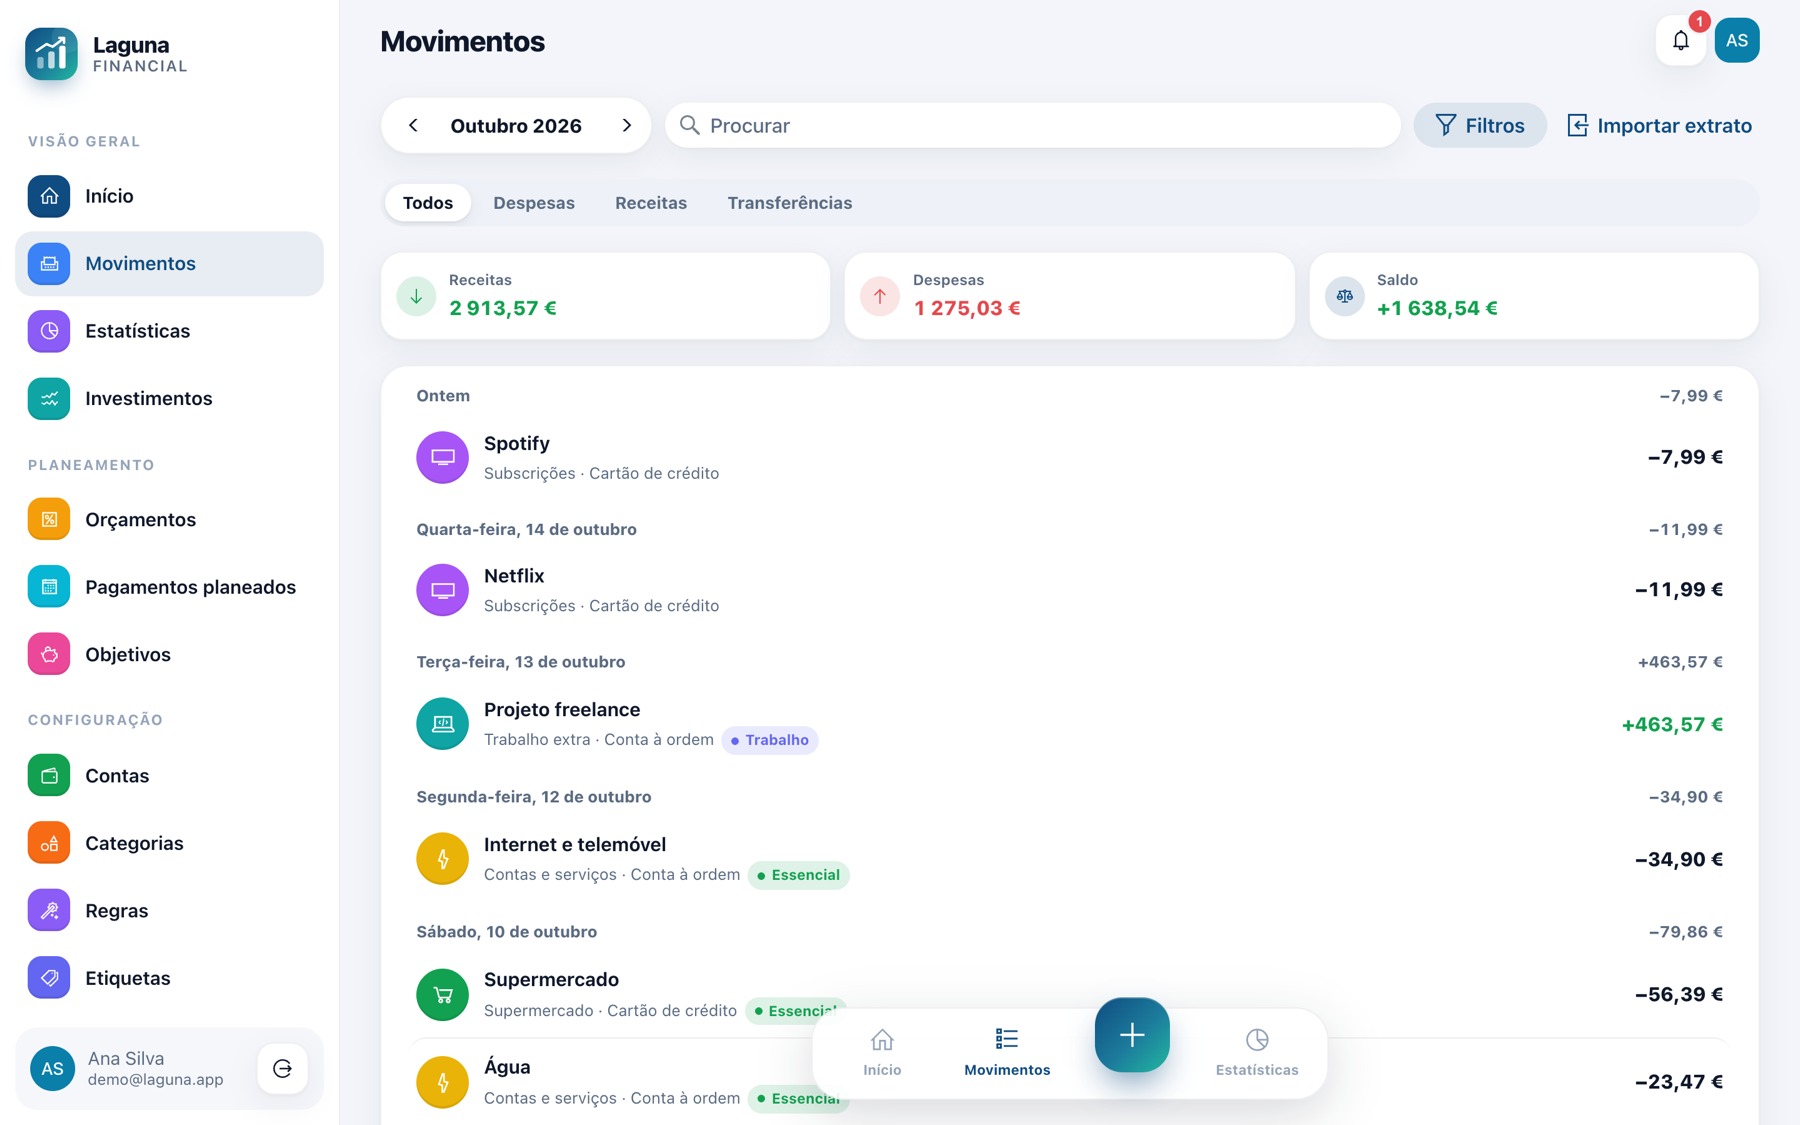
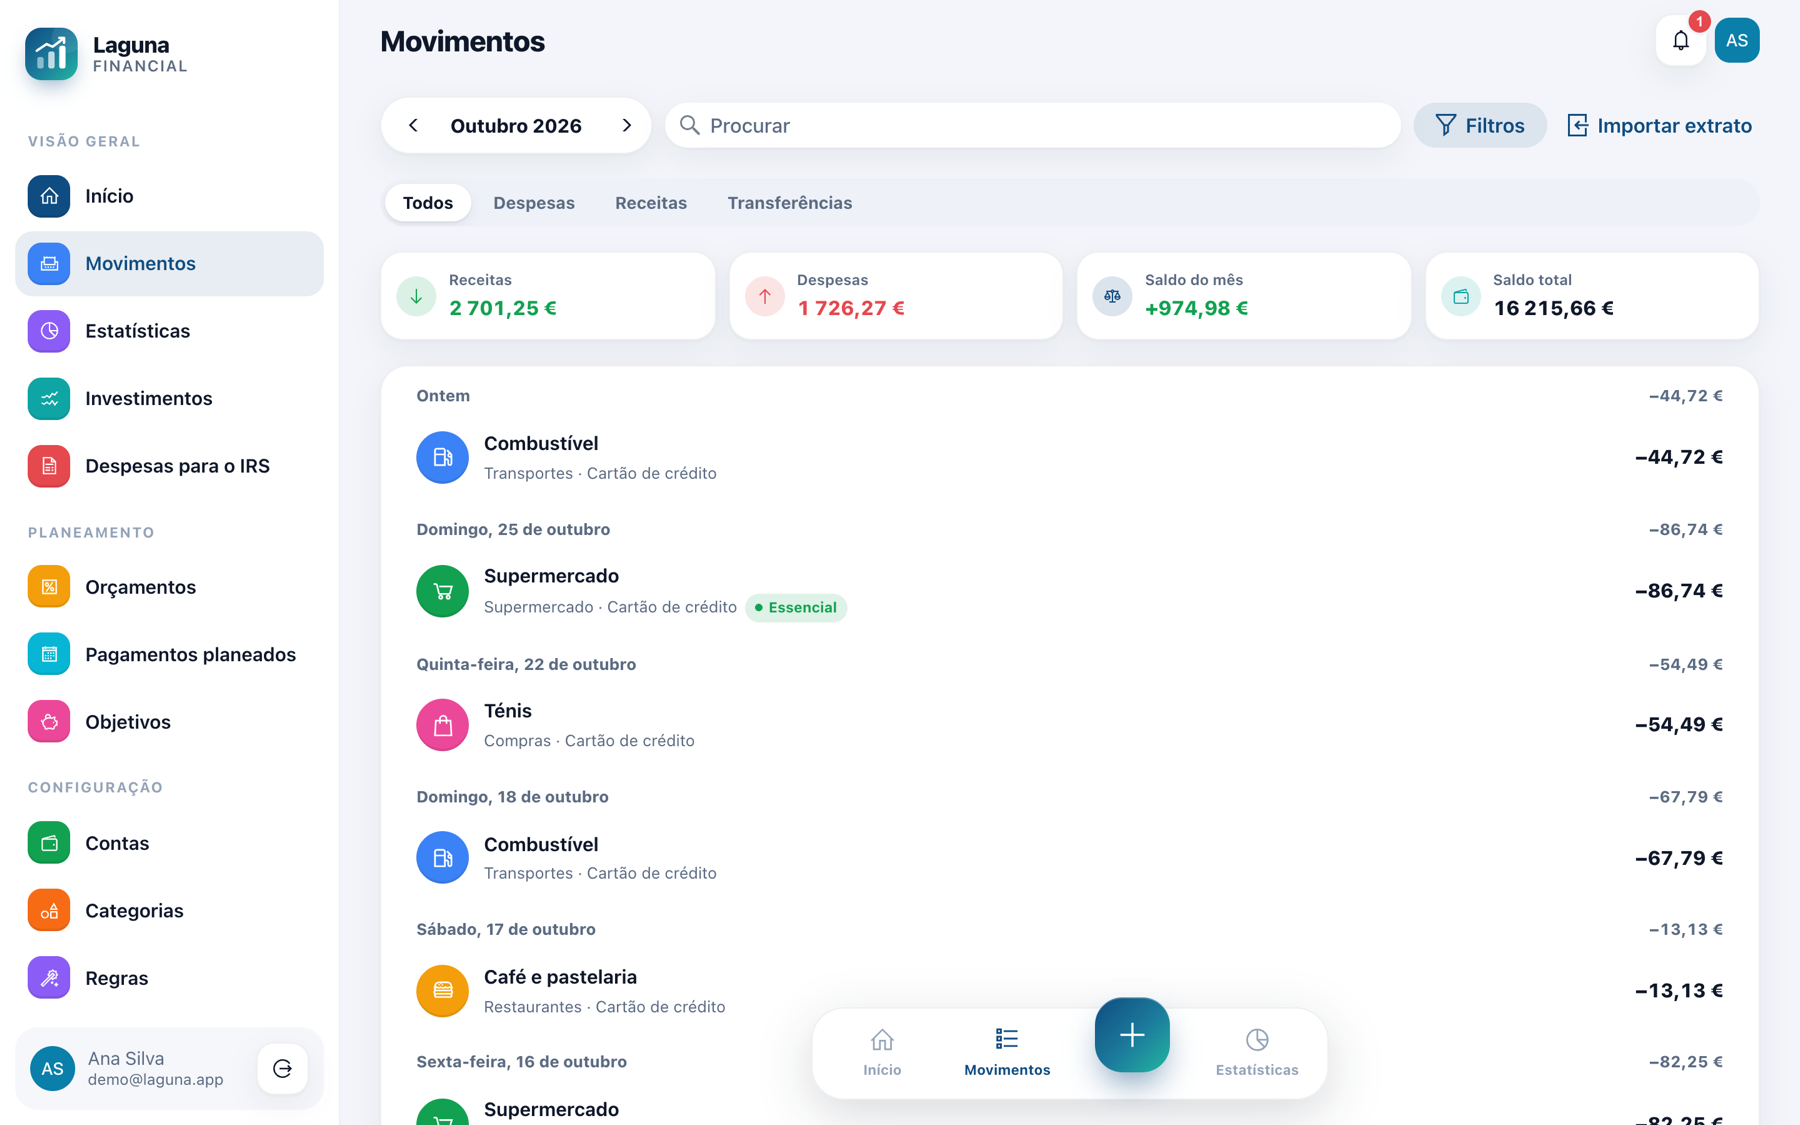
README da 2.2.0: recibos, várias moedas (câmbio do BCE), acerto de saldo e despesas para o IRS
Capturas refeitas com a demonstração atual e duas novas (recibos e IRS).

diff --git a/README.md b/README.md
@@ -9,12 +9,16 @@
 ## O que faz
 
 - **Contas e movimentos** — banco, carteira, cartão, poupanças e investimentos; despesas, receitas e transferências, com categorias, subcategorias e etiquetas.
+- **Recibos** — anexe a fotografia ou o PDF da fatura a cada movimento; ficam guardados com os dados (e nas cópias de segurança).
+- **Acertar o saldo com o do banco** — escreva o saldo que o banco mostra e a diferença entra como um acerto, que não conta como gasto nem como ganho.
 - **Importar extratos do banco** — o ficheiro CSV que o site ou a app do banco exporta. As colunas são reconhecidas sozinhas e importar o mesmo extrato duas vezes não repete movimentos.
 - **Regras de categorização** — "descrição contém CONTINENTE → Supermercado": os movimentos importados já entram na categoria certa.
 - **Orçamentos** — semanais, mensais ou anuais, com aviso aos 80 % e aos 100 %.
 - **Pagamentos planeados e objetivos** — renda, ginásio, salário, com lembrete; quanto poupar por mês para chegar a um objetivo a tempo.
 - **Estatísticas** — fluxo de caixa, despesas e receitas por categoria e por etiqueta, evolução do saldo, comparação com o período anterior.
+- **Despesas para o IRS** — quanto gastou por ano em saúde, educação, habitação, IVA por exigência de fatura…, pela categoria de cada despesa, para conferir o e-fatura e classificar as faturas pendentes.
 - **Investimentos** — ações e ETF registados à mão: carteira a preço de custo, dividendos, mais-valias por FIFO e um relatório anual de apoio ao IRS.
+- **Várias moedas** — cada conta na sua moeda; os totais convertem para a moeda principal com o câmbio do Banco Central Europeu do dia de cada movimento (ou com taxas suas).
 - **Cópias de segurança** — uma por semana automaticamente, mais as que fizer à mão, e restaurar com um clique. Exporta também tudo em CSV, que abre no Excel ou no LibreOffice.
 - **Português, inglês e espanhol**, tema claro e escuro, e a moeda à escolha (euro, real, dólar, libra…).
 
@@ -23,11 +27,12 @@
 | ![Movimentos do mês agrupados por dia](capturas/02-movimentos.png) | ![Estatísticas do mês: receitas, despesas, saldo e fluxo de caixa](capturas/03-estatisticas.png) |
 | ![Orçamentos com o progresso do mês](capturas/04-orcamentos.png) | ![Carteira de investimentos a preço de custo](capturas/05-investimentos.png) |
 | ![Regras de categorização automática](capturas/06-regras.png) | ![Ecrã inicial no tema escuro](capturas/07-inicio-escuro.png) |
+| ![Recibos anexados a uma despesa](capturas/08-recibos.png) | ![Despesas para o IRS por tipo de dedução](capturas/09-irs.png) |
 
 ## Os seus dados são seus
 
 - Ficam **no seu computador**, na pasta `.laguna-financial` da sua área pessoal. Não há servidor nosso nem conta online.
-- A aplicação só fala com a internet para **ver se há uma versão nova** (consulta este repositório no GitHub; não envia dados seus). Se ligar os avisos no browser, esses avisos passam pelo serviço de notificações do próprio browser.
+- A aplicação só fala com a internet para **ver se há uma versão nova** (consulta este repositório no GitHub; não envia dados seus) e, **só se tiver contas noutras moedas**, para buscar o câmbio ao Banco Central Europeu (pede as taxas publicadas, sem nada seu; pode desligar em Preferências › Moedas e câmbio). Se ligar os avisos no browser, esses avisos passam pelo serviço de notificações do próprio browser.
 - A aplicação só aceita ligações do próprio computador (`localhost`): ninguém na sua rede lhe chega.
 - Pode exportar tudo a qualquer momento e levar os dados para outro computador copiando a pasta.
 
@@ -65,6 +70,8 @@ Em Preferências › **Cópias de segurança**: fazer uma cópia agora, uma cóp
 **Liga-se ao meu banco?** Não. Os movimentos entram à mão ou pelo ficheiro do extrato que exporta do banco — a aplicação nunca vê as suas credenciais bancárias.
 
 **Posso usar no telemóvel?** Esta versão é para o computador. Uma versão alojada, com acesso pelo telemóvel e partilha entre casas, está nos planos.
+
+**Calcula a dedução do IRS?** Não: mostra quanto gastou em cada tipo de dedução para conferir o e-fatura. As percentagens e os limites mudam com o ano e com o agregado familiar.
 
 **Esqueci-me da palavra-passe.** Em "Recuperar palavra-passe", o link para a repor fica num ficheiro `repor-palavra-passe.txt` dentro da pasta `.laguna-financial` (não é enviado por email).
 
